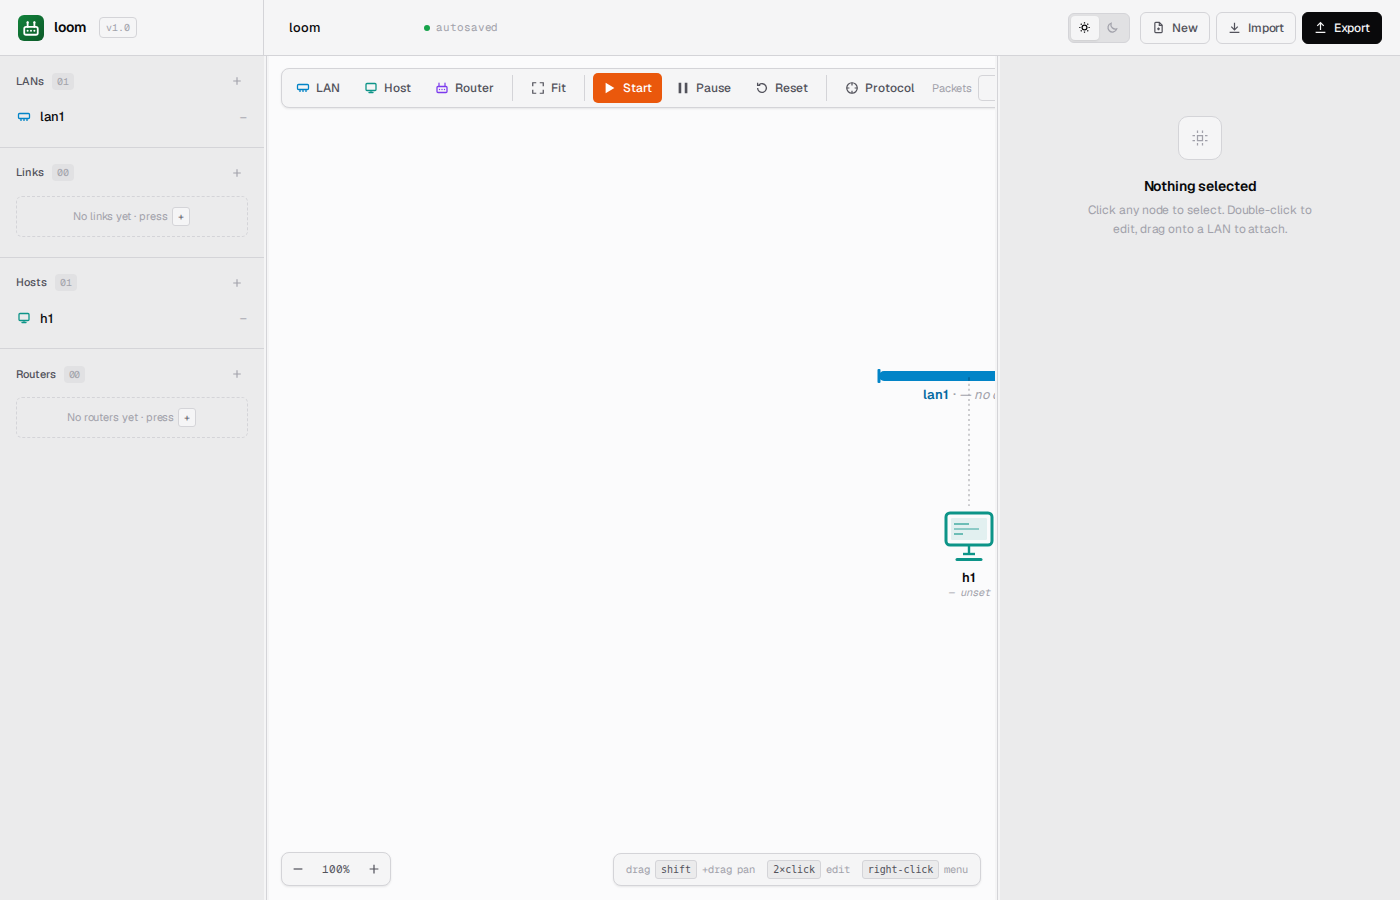
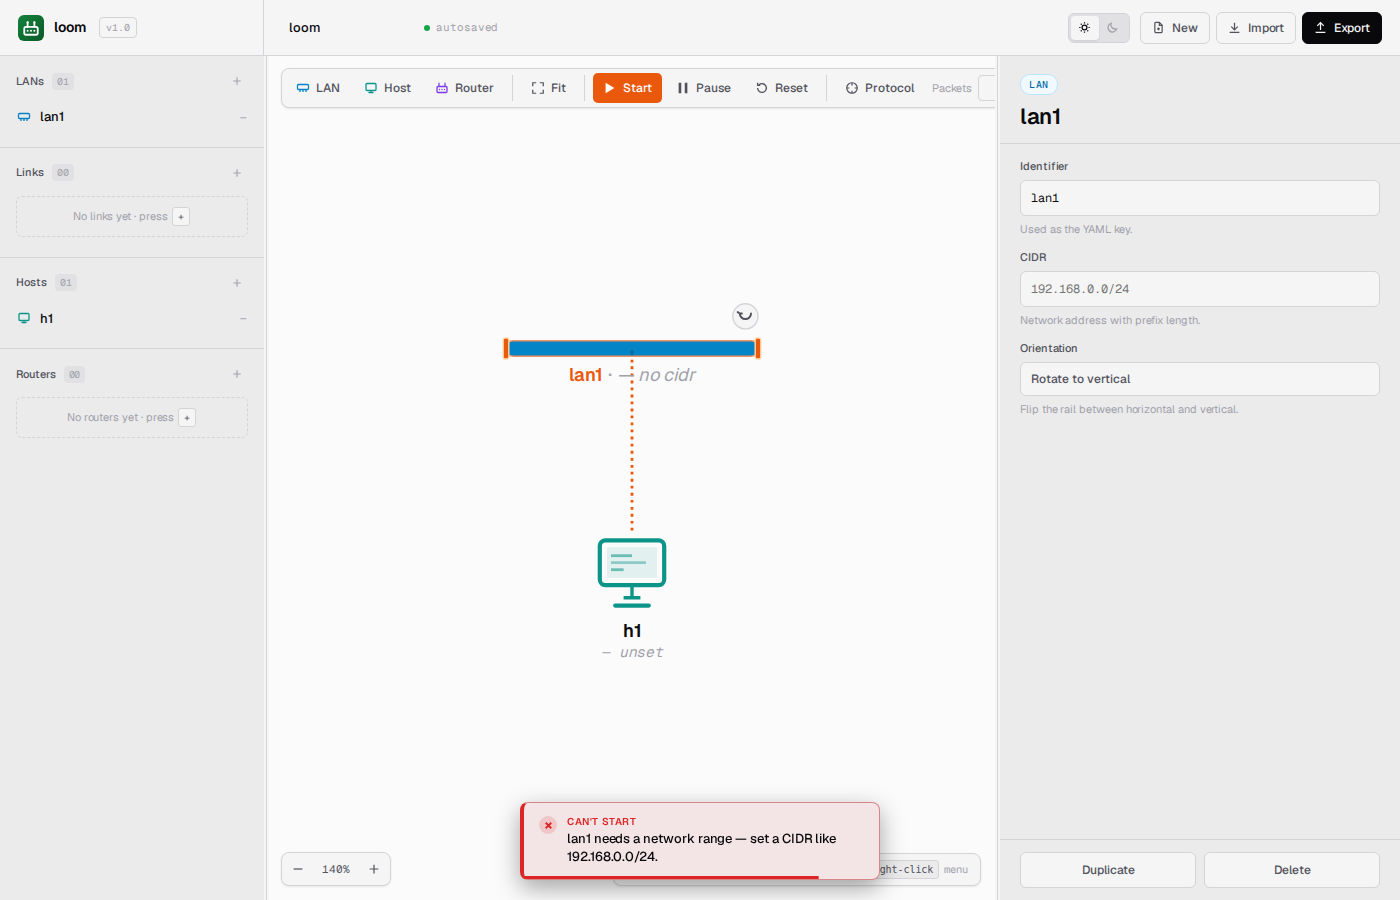
docs(user-guide): rework running-simulations at action level and re-shoot its screenshots

diff --git a/docs/user-guide/running-simulations.md b/docs/user-guide/running-simulations.md
@@ -2,72 +2,66 @@
 
 # Running Simulations
 
-Once you've built (or loaded) a topology, the sim has a lifecycle: it
+Once you've built (or loaded) a topology, the simulation has a lifecycle: it
 starts, runs, pauses, resumes, and eventually stops. This guide explains
 each transition and what's safe at each step.
 
 ## States
 
 ```
-                  ┌─────────────────────┐
-                  │       idle          │   ← initial state
-                  │  no AS in memory    │
-                  └──────────┬──────────┘
-                             │ Start
-                             ▼
-                  ┌─────────────────────┐
-                  │      running        │
-                  │  threads alive,     │
-                  │  protocol ticking   │
-                  └─────┬───────────┬───┘
-              Pause     │           │   Stop
-                        ▼           ▼
-              ┌──────────────────┐  ┌──────────────────┐
-              │     paused       │  │       idle       │
-              │  threads parked  │  └──────────────────┘
-              │  on PauseGate    │
-              └────────┬─────────┘
-                       │ Resume (with optional patch)
-                       └───►  running
+                  Start                     Pause
+     ┌──────┐  ──────────►  ┌─────────┐  ──────────►  ┌────────┐
+     │ idle │               │ running │               │ paused │
+     └──────┘  ◄──────────  └─────────┘  ◄──────────  └────────┘
+        ▲          Stop                     Resume         │
+        └────────────────────── Stop ──────────────────────┘
 ```
 
-The UI mirrors this state machine — at any moment, the toolbar's
-**Start/Stop** and **Pause/Resume** buttons reflect the server's
-authoritative state, as fed by the WebSocket `sim_state` events.
+- **idle** — nothing is simulated; the canvas is yours to edit freely.
+- **running** — every device is alive and the routing protocol is ticking.
+- **paused** — everything frozen where it stands; your edits queue up and
+  land when you resume.
+
+The toolbar mirrors this: the **Start/Stop** and **Pause/Resume** buttons
+always reflect what the simulation is actually doing, not what you last
+clicked.
 
 ## Start
 
-Click **Start** (or press <kbd>Space</kbd>). The SPA does, in order:
+Click **Start** (or press <kbd>Space</kbd>). What happens, in order:
 
-1. Checks the topology is complete — every LAN and link has a network
-   range, every host is attached to one and has an address, and every
-   router interface has an address. If something's missing, Start is
-   aborted, a plain-English message names what to fix, and the item in
-   question is selected so you can jump straight to it and fill it in.
-2. Serializes the current canvas to YAML.
-3. POSTs to `/topology` — the server validates and constructs a fresh
-   autonomous system. On any validation error, the start is aborted
-   and the toolbar surfaces the error via toast.
-4. POSTs to `/sim/start` — the server starts the simulation and every
-   router's routing protocol.
+1. The canvas is checked for anything unfinished — every LAN and link needs
+   a range, every host a network and an address, every router interface an
+   address. If something is missing, Start is aborted, a plain-English
+   message names what to fix, and the item in question is selected so you
+   can go straight to it.
+2. The finished topology is handed to the simulator, which builds it and
+   brings every device up. If the simulator rejects something the canvas
+   check didn't catch, Start is aborted and the reason appears on screen.
+3. Every router starts its routing protocol, and chatter begins crossing
+   the canvas.
 
 ![Start names what's incomplete and selects it — here a LAN with no range yet](../images/07-start-preflight.png)
 
 If the topology was already loaded (e.g. you stopped and want to start
-again with the same topology), step 1+2 is a no-op overwrite of the
-same YAML. The session file is updated either way.
+again with the same one), the canvas is simply sent again unchanged.
+Either way the **session file** is brought up to date — that's the working
+copy the simulator reads, kept separate from the file you originally
+loaded so your own file is never written to. See
+[YAML format](yaml-format.md#save-and-resume-workflow) for where it lives.
 
 **While running:**
 
-- The **Add LAN / Host / Router** toolbar buttons stay enabled. A **LAN
-  or point-to-point link** joins the live system the moment you give it
-  a valid range; an incomplete or invalid value simply stays pending
-  until you finish it — and if you pause before finishing, it carries
-  over into the pending edits and lands on **Resume** instead. Your
-  selection and viewport are preserved when the topology updates. **Hosts and routers** can be dropped on the
-  canvas too, but they cannot be *attached* while running — the network
-  picker is inert and a drag onto a LAN is refused — so they sit
-  unattached until you pause or stop and wire them up there.
+- **Add LAN / Host / Router** stay enabled. A **LAN or point-to-point
+  link** joins the live network the moment you give it a valid range; an
+  incomplete or invalid value stays pending until you finish it, and if
+  you pause before finishing, it carries over into the pending edits and
+  lands on **Resume** instead. Your selection and viewport survive the
+  update either way.
+- **Hosts and routers** can be dropped on the canvas while running, but
+  they cannot be *attached*: the network picker is inert and a drag onto
+  a LAN is refused. They sit unattached until you pause or stop and wire
+  them up there.
 - **Drag any node or link label** to reposition it on the canvas —
   hosts, routers, networks, and p2p link midpoint labels can all be
   moved freely while the sim runs. Repositioning is purely visual and
@@ -94,6 +88,7 @@ same YAML. The session file is updated either way.
   enter the link — you'll see the packet leave the source and fade out
   instead of reaching the device.
 
+
 ![A halted router and its links render grayed-out while the rest of the topology keeps running](../images/60-router-halted.png)
 
 ![The inspector's per-interface controls: a downed interface offers Enable; the others offer Disable and Fail](../images/61-interface-controls.png)
@@ -106,33 +101,14 @@ times out, wait a moment and try again. (The default Hello interval is
 10 s; lower the **Hello interval** in the **Protocol** popover to 1 s if
 you want neighbors to be discovered faster.)
 
-### Streamed ping output
-
-When you run `ping` from a device terminal while the sim is running,
-each ICMP reply (or timeout) appears in the terminal **as it arrives**,
-one line at a time — you don't wait for all probes to finish before
-seeing results. The final summary still prints at the end. If the
-terminal is closed, results are discarded silently.
-
-With `ping -c N` in a device terminal, the probes animate **one round-trip
-at a time**: each request travels to the destination and its reply comes
-back, then the terminal waits one second (like real `ping`) before
-sending the next probe. You follow them individually instead of seeing
-all `N` dots ride the wire at once.
-
-Because each probe is only sent **after the previous one has finished
-animating**, that pause is a real window to watch traffic **reroute
-live**: while a counted ping runs, disable an interface or halt a router
-on the route during the pause. The next probe is then sent fresh, so once
-the network reconverges it's forwarded along the recomputed route and its
-animation follows that new path — no matter how long the route is. Size
-the pause with `-i <seconds>` (e.g. `-i 2` for more editing time, `-i 0`
-for none). The pause ends when you Stop.
+For how ping output streams into a terminal, and how a counted ping lets
+you watch traffic reroute mid-sequence, see the `ping` command in
+[Terminals](terminals.md).
 
 ## Pause
 
-Click **Pause** (or press <kbd>P</kbd>). The SPA POSTs to `/sim/pause`;
-the server pauses every simulator thread at its next safe point.
+Click **Pause** (or press <kbd>P</kbd>). Every device stops where it
+stands, at the next point where stopping is safe.
 
 Effects, observable in the canvas:
 
@@ -140,7 +116,7 @@ Effects, observable in the canvas:
 - The routing protocol's periodic Hello and LSA messages stop.
 - The **Pause** button becomes **Resume**.
 
-Pause is also the natural pairing with the Packets panel (see [web-ui.md](web-ui.md)) — frozen animations make the badge-to-row mapping easy to read.
+Pause is also the natural pairing with the Packets panel (see [Web UI](web-ui.md)) — frozen animations make the badge-to-row mapping easy to read.
 
 **While paused, you can edit:**
 
@@ -148,60 +124,53 @@ Pause is also the natural pairing with the Packets panel (see [web-ui.md](web-ui
 - Duplicate a LAN, host, router, or link.
 - Delete any of the above.
 - Update an interface cost.
-- Edit names and addresses (with the same uniqueness/validity rules
-  enforced by the validator).
+- Edit names and addresses (the same uniqueness and validity rules apply
+  as anywhere else).
 
-Each mutation appears in the **Resume** button label as a counter:
-*Resume (3 edits)*. These ops accumulate in the SPA's pending-edits
-queue; nothing is applied to the server until you Resume.
+Each change appears in the **Resume** button label as a counter:
+*Resume (3 edits)*. They queue up on the canvas; nothing reaches the
+simulation until you resume.
 
-While paused, you cannot **Start** (already started) or **Stop** the sim
-through the toolbar without first stopping the underlying simulation
-(Stop is allowed from paused, but it discards the queued patch).
+While paused there is no **Start** to press — the simulation is already
+loaded. The main button reads **Stop**, and it works: it tears the
+simulation down and returns you to `idle`. Be aware that it also throws
+away any edits still sitting in the queue.
 
 ## Resume
 
-Click **Resume**. The SPA:
+Click **Resume**. Your queued edits are first squared against the canvas
+as it stands now: each is sent with its current values — a LAN you added
+and then renamed goes out under the new name — and anything you deleted
+in the meantime is dropped.
 
-1. Reconciles the pending-edits queue against the current canvas:
-   `add_*` ops are rewritten with the latest values (so a network you
-   added and then renamed is sent with its current name), and any op
-   whose target was deleted between Pause and Resume is dropped.
-2. POSTs the reconciled patch to `/sim/resume`.
+They are then applied together, all or nothing:
 
-The server validates the entire patch atomically:
+- If a single edit is invalid, **none** of them are applied. The
+  simulation stays paused, a message names the problem, and your queue is
+  kept so you can fix it and resume again.
+- Otherwise every edit lands in order and the simulation carries on from
+  where it left off, keeping the routing state it had already built.
 
-- If any op fails validation, the **whole patch is rejected** with a
-  `400 Bad Request` and a description of the failing op. The sim
-  remains paused; the patch stays in the SPA so you can fix the
-  problem.
-- If validation passes, every op is applied in order, then the gate is
-  resumed and the routing protocol continues from where it left off.
+Messages you may see, and what each one means:
 
-Common patch-validation errors:
-
-| Error | Cause |
+| Message | What happened |
 |---|---|
-| `duplicate_name` | `add_*` with a name that's now taken. |
-| `address_in_use` | `add_host` / `add_router` carries an IP already held by another host or router interface on the same network. |
-| `network_in_use` | `remove_network` for a LAN still attached to a host or router. |
-| `network_not_found` | `add_host` / `add_router` references a non-existent network. |
-| `interface_not_found` | `update_cost` for a router that doesn't have that interface. |
-| `invalid_cost` | Cost is non-numeric or non-positive. |
+| `duplicate_name` | The name is already taken by another entity. |
+| `address_in_use` | Another host or router interface on that network already holds this IP. |
+| `network_in_use` | A LAN you deleted still has a host or router attached to it. |
+| `network_not_found` | A host or router refers to a LAN the simulation doesn't have. |
+| `interface_not_found` | A cost edit names an interface that router doesn't have. |
+| `invalid_cost` | A cost has to be a positive number. |
 
-The reconciliation step is what makes "pause → add → rename → resume"
-feel natural: you don't think about the patch wire format, just the
-final shape you want.
+Squaring the queue against the canvas first is what makes "pause → add →
+rename → resume" feel natural: you think about the shape you want, not
+about the individual edits that got you there.
 
 ## Stop
 
-Click **Stop** (or press <kbd>Space</kbd> again). The SPA POSTs to
-`/sim/stop`; the server tears the simulation down:
-
-- Every network, link, router, and interface receives the stop signal
-  and its worker threads exit cleanly.
-- The simulation is discarded.
-- The state returns to `idle`.
+Click **Stop** (or press <kbd>Space</kbd> again). The simulation is torn
+down: every network, link, router, and interface shuts down in an orderly
+way, the simulation is discarded, and the state returns to `idle`.
 
 What survives:
 
@@ -209,17 +178,16 @@ What survives:
   Start re-reads it. See
   [YAML format](yaml-format.md#save-and-resume-workflow) for where it
   lives.
-- The SPA's canvas state. Stop and Start without touching the topology
+- Everything on the canvas. Stop and Start without touching the topology
   and you're right back where you were.
-- The terminals on screen — they continue to refer to a no-longer-
-  existing simulation. Commands sent to a stopped sim return `409 no
-  topology loaded`. Close and re-open the terminal after Start to get
-  a clean session.
+- The terminals on screen — they still refer to a simulation that no
+  longer exists, so commands typed into them fail with *no topology
+  loaded*. Close and re-open the terminal after the next Start for a
+  clean session.
 
-If you've been editing the canvas while idle (after a stop, but before
-the next start), those edits **are not** on the server yet — they live
-in the SPA's local state and `localStorage`. The next Start serializes
-them to YAML and pushes via `/topology`.
+Edits you make while idle — after a stop, before the next start — exist
+only on the canvas until you press Start, which hands the whole topology
+over at once.
 
 ## Reset
 
@@ -229,11 +197,11 @@ Click **Reset** (only enabled when idle). This:
 2. Re-clones from the source file (`samples/sample.yaml` by default, or
    whatever `LOOM_TOPOLOGY` points at).
 3. Re-parses the source into a fresh autonomous system.
-4. The SPA fetches the new YAML and replaces the canvas.
+4. The canvas is replaced with the freshly loaded topology.
 
 Use Reset when the session has drifted from the source and you want to
-roll back. The source file is **never modified** by the SPA — Reset
-discards only the session clone.
+roll back. Your source file is **never modified** — Reset discards only
+the working copy.
 
 ## Tuning the protocol intervals
 
@@ -260,10 +228,10 @@ visibly chatter on the canvas at roughly one cycle per second.
 
 | Action | Idle (sim not started) | Paused (sim is loaded) | Running |
 |---|---|---|---|
-| Where the edit lives | SPA local state + `localStorage` | SPA local state + pending-edits queue | Applied immediately to the live AS |
-| When the server sees it | On next **Start** (whole YAML) | On **Resume** (incremental patch) | On each completed add/change |
-| Validation | Full re-parse on start | Per-op validation on resume | Per-op validation on each commit |
-| If it fails | Start aborts; topology stays unloaded | Resume rejected; patch preserved for editing | Edit rejected; canvas resynced from server |
+| Where the edit lives | On the canvas, saved in the browser | On the canvas, plus the queue of pending edits | Applied to the running simulation right away |
+| When the simulation sees it | On the next **Start**, with the whole topology | On **Resume**, as a batch | As soon as you complete each one |
+| Checked | Whole topology, on Start | Each edit, on Resume | Each edit, as you complete it |
+| If it fails | Start aborts; nothing is loaded | Resume refused; your queue is kept so you can fix it | The edit is refused and the canvas snaps back to what the simulation has |
 | Convergence impact | Routers start from scratch | Existing routing state is preserved; new edges feed in | New LANs and links feed in with zero downtime |
 
 If you're prototyping ("does this CIDR work?"), idle edits + Start are
@@ -278,9 +246,8 @@ pause: make the related changes together and resume atomically.
 - **Lower the Hello interval when exploring.** The default 10 s is
   realistic but slow for neighbor discovery. Drop it to 1 s while you're
   poking, then restore it when you want a quieter canvas.
-- **Pause before bulk edits.** The patch list batches efficiently; the
-  one server round-trip is cheaper than starting and stopping for each
-  change.
+- **Pause before bulk edits.** Related changes then land together in one
+  go, which is cheaper than starting and stopping for each one.
 - **Use Reset, not Stop+Start, when the session has gotten weird.**
   Stop just unloads the AS; Reset throws the session away and starts
   from the source.

diff --git a/docs/user-guide/terminals.md b/docs/user-guide/terminals.md
@@ -230,6 +230,10 @@ ping h3 -c 8 -i 2
 
 The pause ends immediately if you Stop the sim.
 
+Replies appear one line at a time, as each arrives — you don't wait for
+the whole run to finish before seeing results. Close the terminal
+mid-sequence and the remaining results are discarded silently.
+
 #### `set_gateway <ip>`
 
 Update the host's default gateway.
